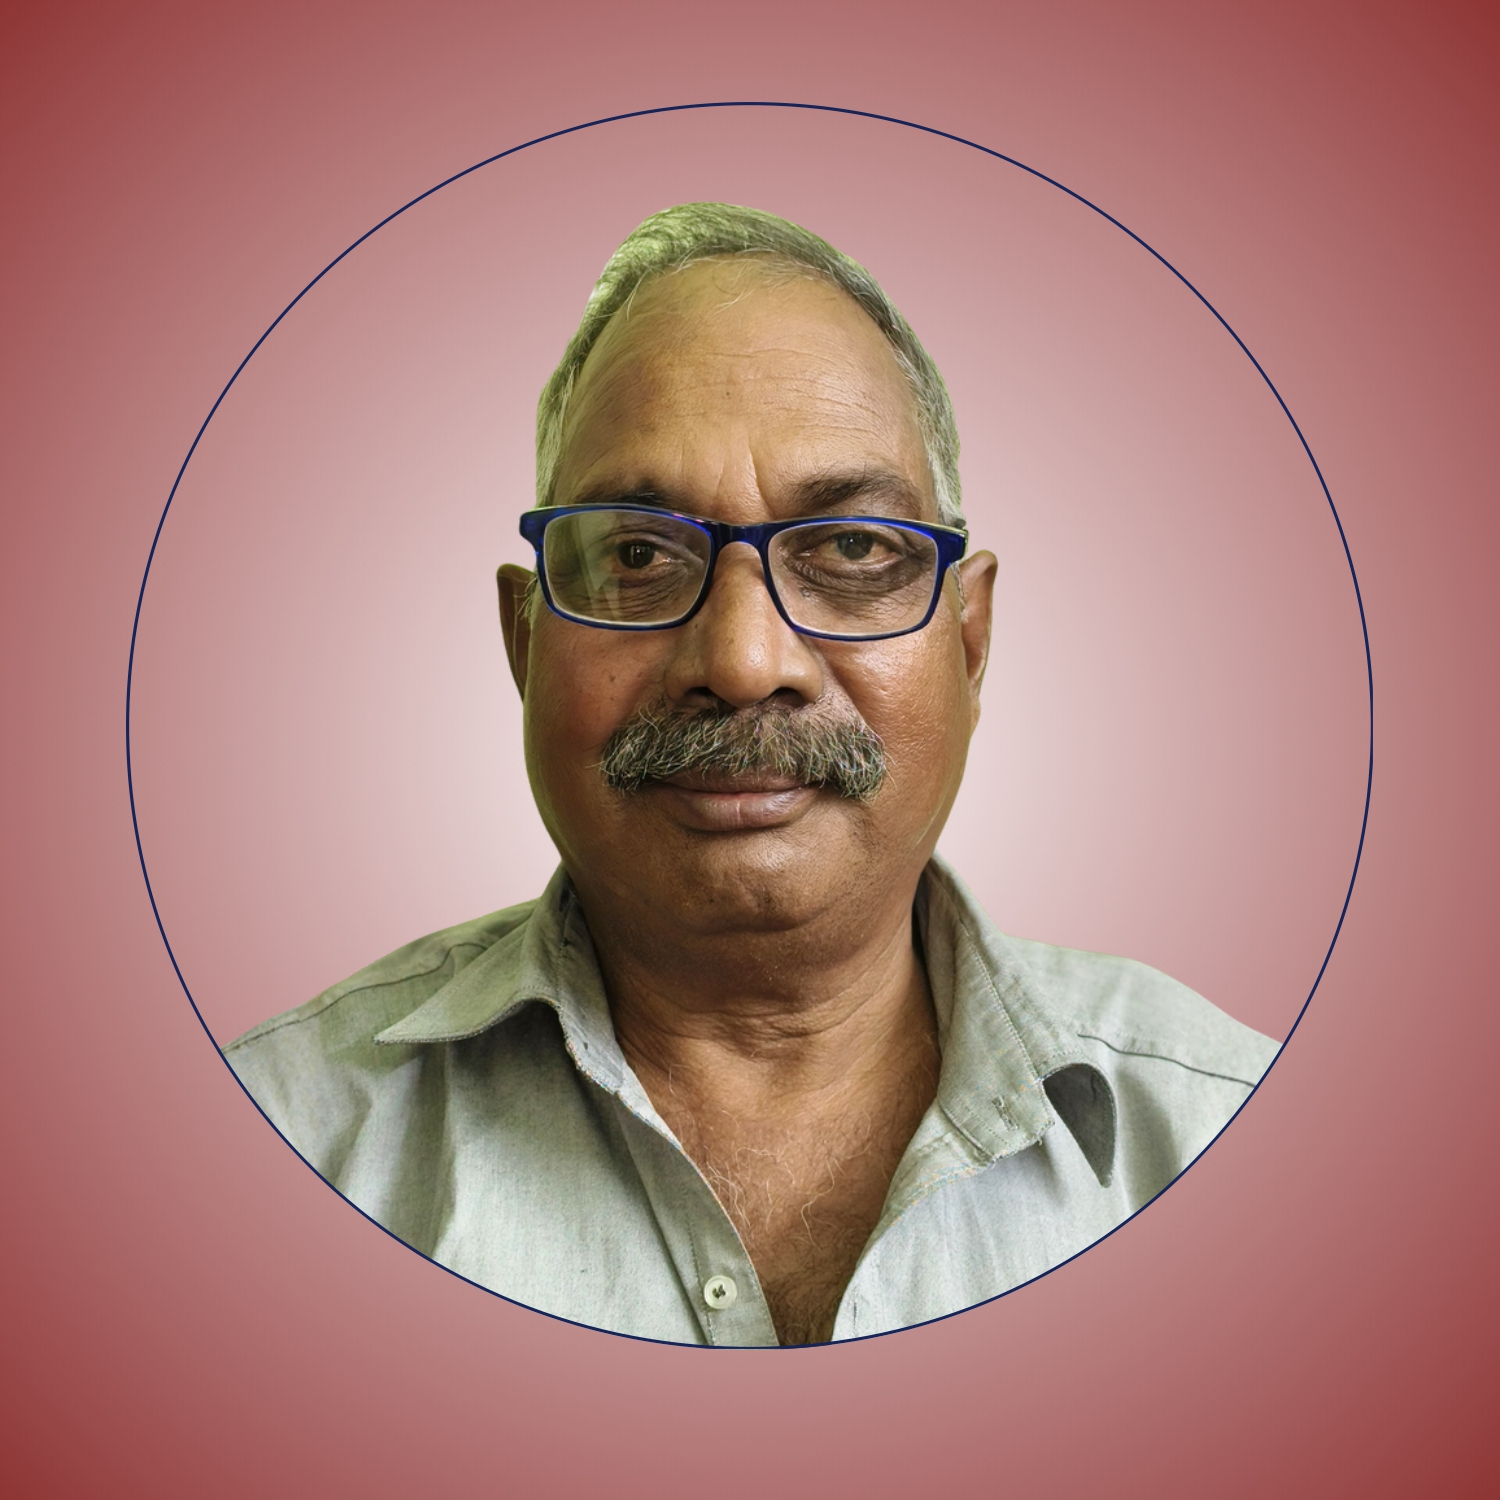
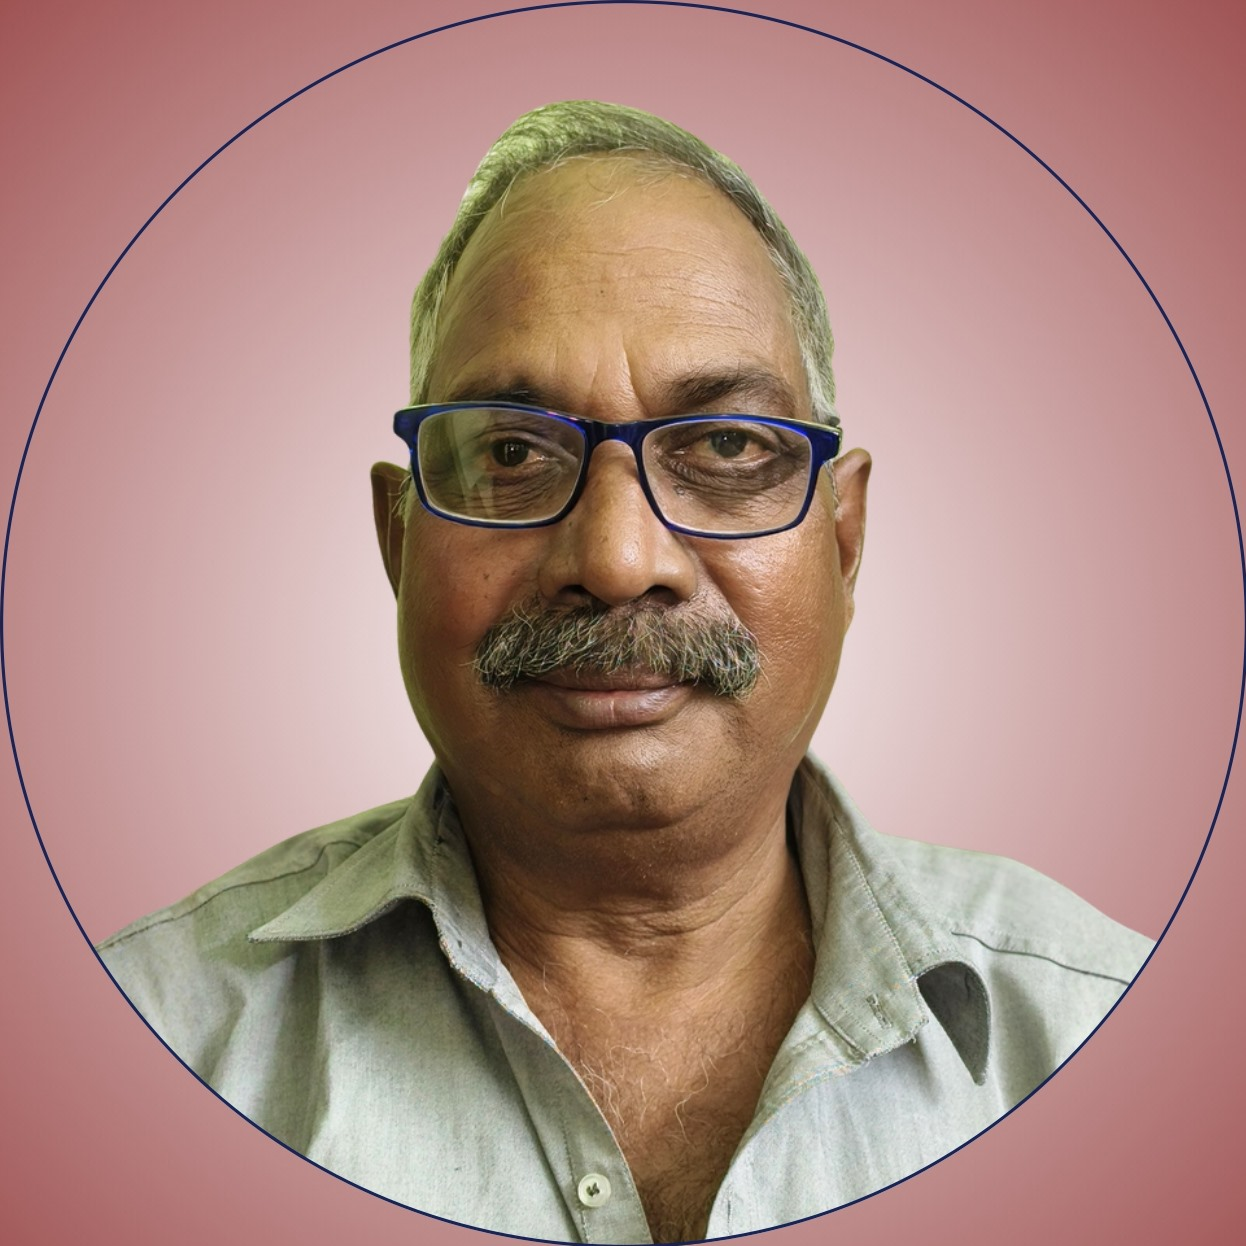
ok

diff --git a/src/routes/future-dreams.tsx b/src/routes/future-dreams.tsx
@@ -107,7 +107,7 @@ function FutureDreams() {
             <div className="venture-contact-line">
               <Smartphone size={18} />
               <span>
-                M.&nbsp;{" "}
+                &nbsp;{" "}
                 <a href={sisterVenture.mobiles[0]!.href}>{sisterVenture.mobiles[0]!.label}</a>{" "}
                 &nbsp;/&nbsp;{" "}
                 <a href={sisterVenture.mobiles[1]!.href}>{sisterVenture.mobiles[1]!.label}</a>
@@ -124,7 +124,7 @@ function FutureDreams() {
             <div className="venture-contact-line">
               <MapPin size={18} />
               <span>
-                Berhampore &amp; Head Office: {sisterVenture.address}
+                Head Office: {sisterVenture.address}
                 <br />
                 <a
                   href={business.maps}

diff --git a/src/components/site/fd-team.tsx b/src/components/site/fd-team.tsx
@@ -47,7 +47,7 @@ export function FutureDreamsTeam() {
                     src={member.photo}
                     alt={`Portrait of ${member.name}`}
                     loading="lazy"
-                    className="size-full object-cover scale-[1.18]"
+                    className="size-full object-cover"
                   />
                 </div>
               ) : (
